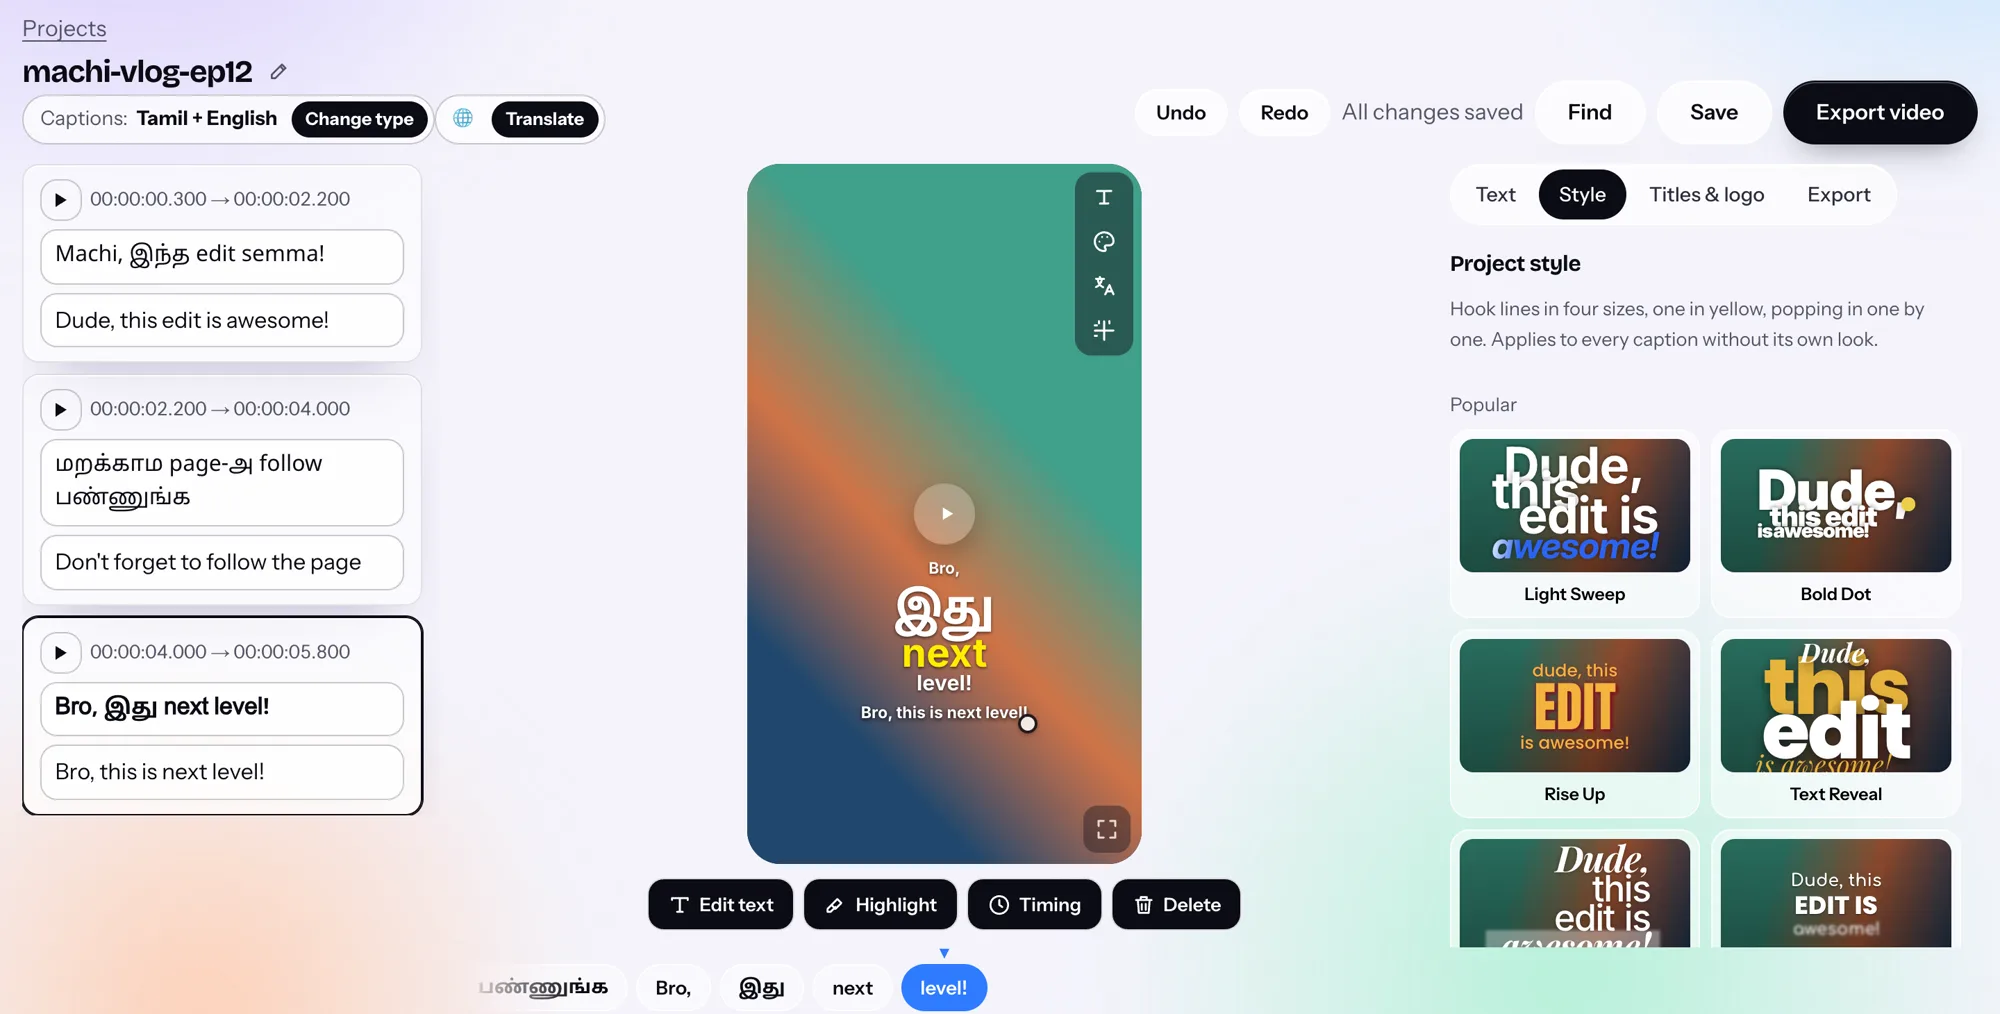
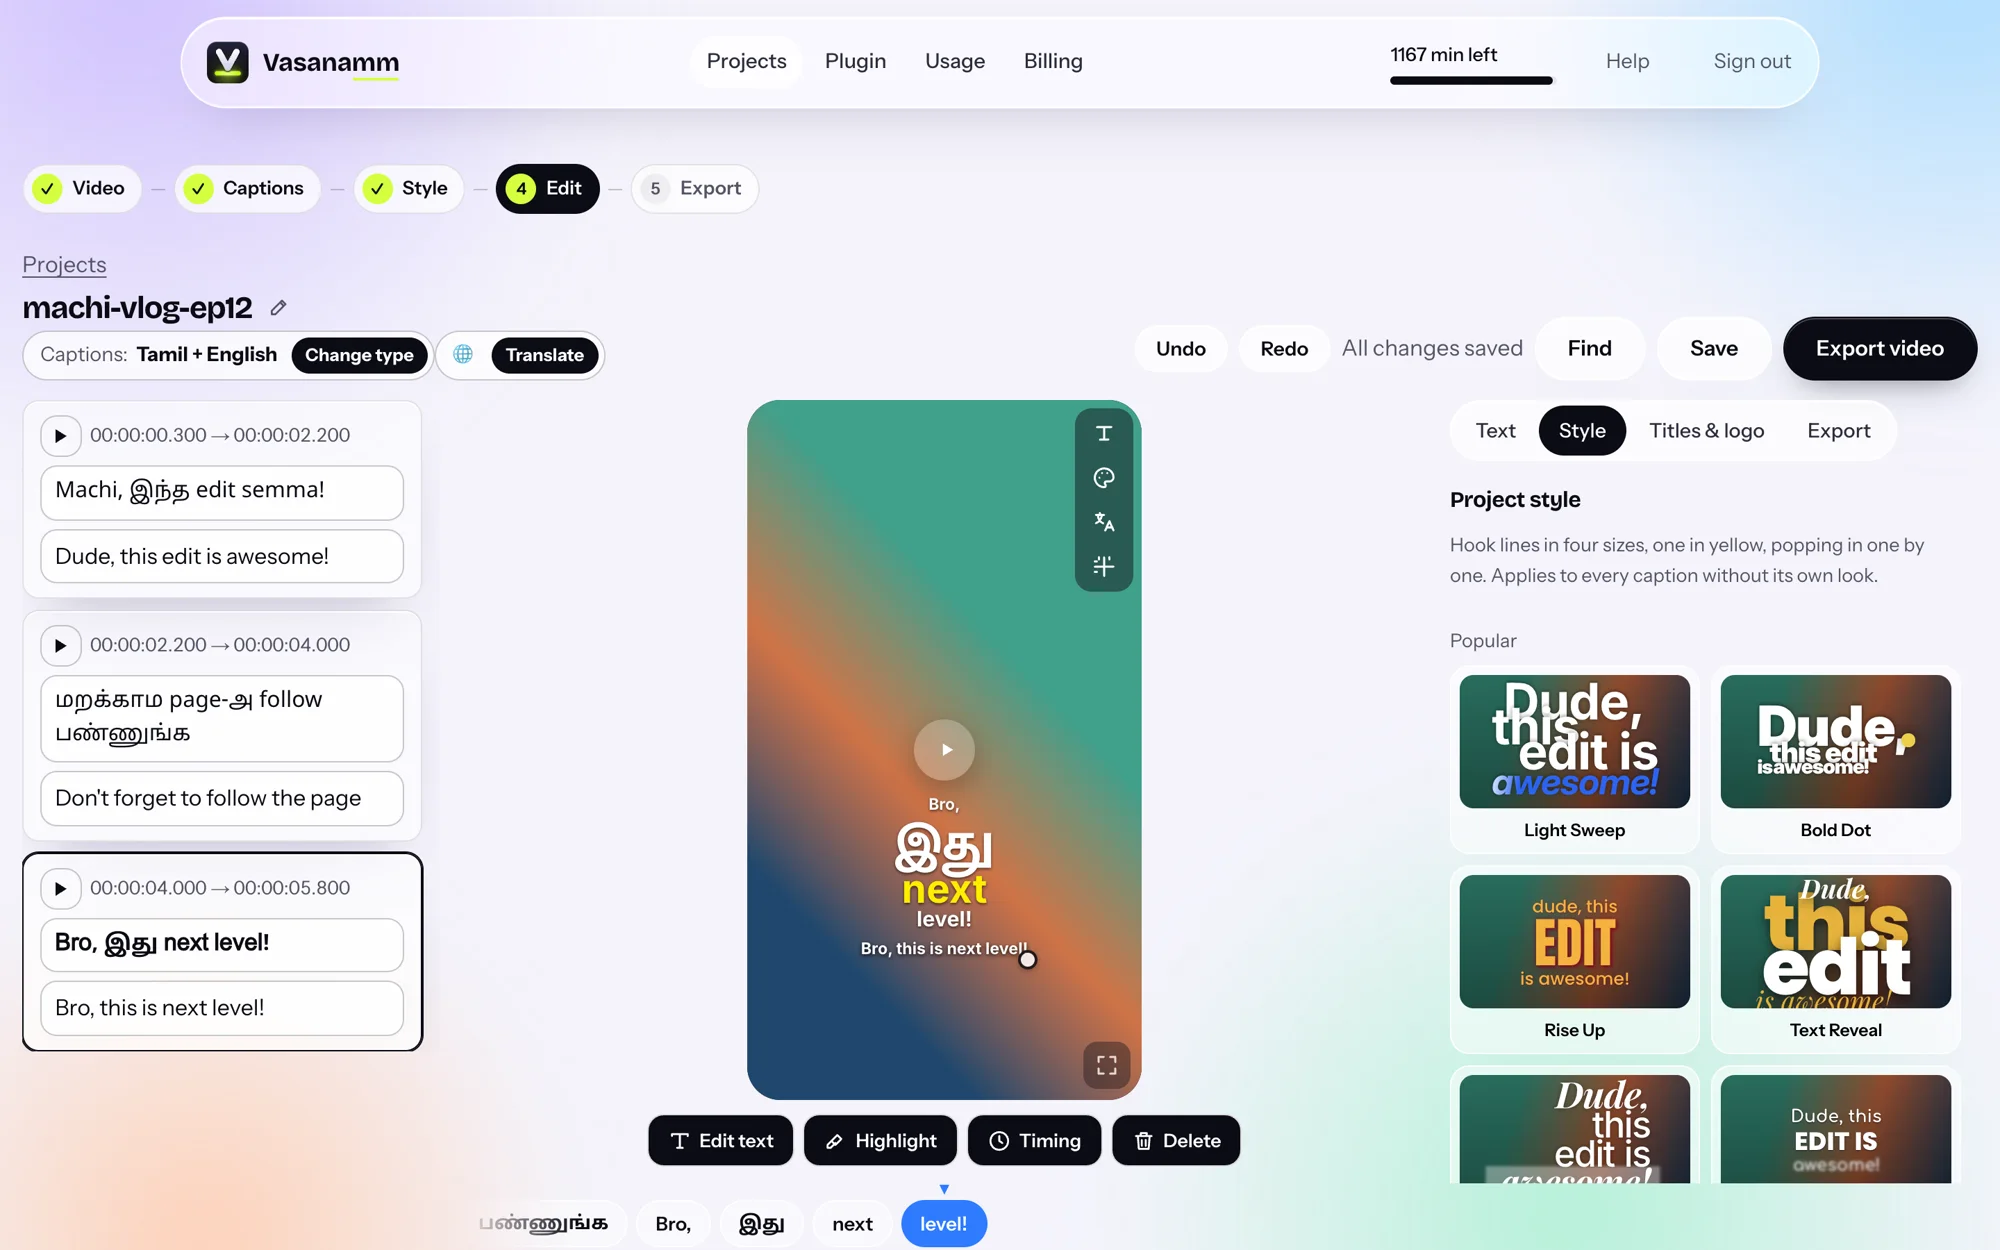
Homepage editor section: the screenshots in a realistic MacBook (camera notch, Safari window, aluminium base) and iPhone (titanium band, Dynamic Island, status bar, side buttons), both drawn in CSS
Claude-Session: https://claude.ai/code/session_01Vg3xd9etKGRwdzvMY3ibrV

diff --git a/app/home.css b/app/home.css
@@ -76,16 +76,58 @@
 .sw-group button[aria-pressed="true"] { background: var(--lime); border-color: var(--lime); color: var(--black); }
 .sw-group button:focus-visible { outline: 2px solid var(--lime); outline-offset: 2px; }
 
-/* ---------- Editor: real screenshots ---------- */
-.hm-shots { position: relative; padding-right: clamp(60px, 14vw, 190px); }
-.hm-desk { position: relative; margin: 0; border-radius: 18px; background: #fff; padding: 34px 0 0; box-shadow: 0 50px 90px -50px rgba(40, 30, 90, .55), 0 0 0 1px var(--line); overflow: hidden; }
-.hm-desk img { display: block; width: 100%; height: auto; }
-.hm-dots { position: absolute; top: 13px; left: 16px; display: flex; gap: 6px; }
-.hm-dots i { width: 10px; height: 10px; border-radius: 50%; background: #e2e0ea; }
-.hm-pin { position: absolute; translate: -50% -50%; width: 30px; height: 30px; border-radius: 50%; display: grid; place-items: center; background: var(--lime); color: var(--black); font: 700 .9rem var(--font-body); box-shadow: 0 0 0 5px rgba(212, 255, 63, .35), 0 6px 14px rgba(0, 0, 0, .25); }
-.hm-mobile { position: absolute; right: 0; bottom: -40px; width: clamp(130px, 21%, 250px); margin: 0; }
-.hm-mobile img { display: block; width: 100%; height: auto; border-radius: 28px; border: 6px solid var(--black); box-shadow: 0 40px 70px -30px rgba(12, 12, 20, .6); }
-.hm-mobile figcaption { margin-top: 10px; font-size: .82rem; color: var(--muted); text-align: center; }
+/* ---------- Editor: real screenshots on a MacBook and an iPhone, both drawn in CSS ---------- */
+.hm-shots { position: relative; padding: 0 clamp(70px, 15vw, 210px) 0 0; }
+.hm-pin { position: absolute; translate: -50% -50%; width: 30px; height: 30px; border-radius: 50%; display: grid; place-items: center; background: var(--lime); color: var(--black); font: 700 .9rem var(--font-body); box-shadow: 0 0 0 5px rgba(212, 255, 63, .35), 0 6px 14px rgba(0, 0, 0, .25); z-index: 2; }
+
+/* MacBook: a black glass lid with an aluminium rim and a camera notch, a thin aluminium base with the thumb groove. */
+.mac { margin: 0 auto; width: 100%; container-type: inline-size; }
+.mac-lid { position: relative; margin: 0 6.5%; padding: 1.6cqw 1.6cqw 2.1cqw; border-radius: 2.6cqw 2.6cqw 1.1cqw 1.1cqw; background: #0b0b0d;
+  box-shadow: 0 0 0 .22cqw #a9abb1, 0 0 0 .32cqw #d9dadf, inset 0 0 0 .18cqw #2a2a2e; }
+.mac-cam { position: absolute; top: 1.6cqw; left: 50%; translate: -50% 0; width: 13%; height: 2cqw; background: #0b0b0d; border-radius: 0 0 1cqw 1cqw; z-index: 3; }
+.mac-cam::after { content: ""; position: absolute; top: .55cqw; left: 50%; translate: -50% 0; width: .7cqw; height: .7cqw; border-radius: 50%; background: radial-gradient(circle at 35% 35%, #3a4a6a, #0d0f16 60%); box-shadow: 0 0 0 .12cqw #1b1b20; }
+.mac-screen { position: relative; overflow: hidden; border-radius: .9cqw .9cqw .2cqw .2cqw; aspect-ratio: 1.545;
+  background: radial-gradient(120% 90% at 20% 10%, #b7a8ff, transparent 55%), radial-gradient(90% 90% at 90% 100%, #8fd3ff, transparent 55%), linear-gradient(160deg, #6f5bd6, #2b2a5e); }
+.mac-screen::after { content: ""; position: absolute; inset: 0; pointer-events: none; z-index: 4; background: linear-gradient(115deg, rgba(255, 255, 255, .07) 0%, rgba(255, 255, 255, 0) 38%); }
+.mac-menu { display: flex; align-items: center; gap: 1.5cqw; height: 2.6%; min-height: 0; padding: 0 1.4cqw; font: 500 .82cqw/1 -apple-system, "SF Pro Text", "Helvetica Neue", var(--font-sans), sans-serif; color: #fff; background: rgba(30, 24, 60, .35); -webkit-backdrop-filter: blur(20px); backdrop-filter: blur(20px); }
+.mac-menu b { font-weight: 700; }
+.mac-menu em { margin-left: auto; font-style: normal; }
+.mac-win { position: absolute; left: 2.2%; right: 2.2%; top: 5%; bottom: 0; border-radius: .9cqw .9cqw 0 0; overflow: hidden; background: #f4f3fb; box-shadow: 0 1.6cqw 4cqw rgba(0, 0, 0, .45), 0 0 0 .08cqw rgba(0, 0, 0, .35); }
+.mac-bar { position: relative; display: flex; align-items: center; height: 3.6cqw; padding: 0 1.2cqw; background: linear-gradient(#ecebf0, #e1e0e6); border-bottom: .08cqw solid #c9c8cf; }
+.mac-lights { display: flex; gap: .62cqw; }
+.mac-lights i { width: .95cqw; height: .95cqw; border-radius: 50%; background: #ff5f57; box-shadow: inset 0 0 0 .06cqw rgba(0, 0, 0, .15); }
+.mac-lights i:nth-child(2) { background: #febc2e; }
+.mac-lights i:nth-child(3) { background: #28c840; }
+.mac-url { position: absolute; left: 50%; translate: -50% 0; display: flex; align-items: center; justify-content: center; gap: .5cqw; width: 34%; height: 2.2cqw; border-radius: .6cqw; background: #fff; box-shadow: 0 0 0 .06cqw #d3d2d8; font: 500 .95cqw -apple-system, "SF Pro Text", "Helvetica Neue", var(--font-sans), sans-serif; color: #2b2b30; }
+.mac-url svg { width: .7cqw; fill: #6b6b72; }
+.mac-page { position: relative; }
+.mac-page img { display: block; width: 100%; height: auto; }
+.mac-base { position: relative; height: 1.9cqw; border-radius: 0 0 50% 50% / 0 0 100% 100%;
+  background: linear-gradient(#f3f4f6 0%, #d5d7db 30%, #a9acb2 75%, #7f8288 100%); box-shadow: 0 2.4cqw 3cqw -1.6cqw rgba(20, 20, 40, .55); }
+.mac-base::before { content: ""; position: absolute; top: 0; left: 50%; translate: -50% 0; width: 15%; height: 45%; border-radius: 0 0 1.2cqw 1.2cqw; background: linear-gradient(#a4a7ad, #c9cbd0); }
+
+/* iPhone: a titanium band, black bezel, Dynamic Island, status bar, home indicator and side buttons. */
+.iph { position: absolute; right: 0; bottom: -6%; width: clamp(130px, 22%, 260px); margin: 0; z-index: 5; container-type: inline-size; }
+.iph-body { position: relative; padding: 4cqw; border-radius: 17cqw; background: linear-gradient(135deg, #8d8e93, #4a4b50 30%, #2c2d31 55%, #6b6c71);
+  box-shadow: inset 0 0 0 .7cqw #1d1d20, 0 0 0 .5cqw #5c5d62, 0 40px 70px -26px rgba(12, 12, 20, .65); }
+.iph-screen { position: relative; overflow: hidden; border-radius: 13cqw; aspect-ratio: 390 / 844; background: #000; }
+.iph-screen img { position: absolute; left: 0; right: 0; top: 10.5cqw; width: 100%; height: auto; display: block; }
+.iph-status { position: absolute; inset: 0 0 auto; height: 12.5cqw; z-index: 2; display: flex; align-items: center; justify-content: space-between; padding: 1cqw 8cqw 0 10cqw; color: #fff; background: #000;
+  font: 600 4.3cqw -apple-system, "SF Pro Text", "Helvetica Neue", var(--font-sans), sans-serif; }
+.iph-island { position: absolute; top: 2.8cqw; left: 50%; translate: -50% 0; width: 31cqw; height: 9cqw; border-radius: 99px; background: #000; box-shadow: 0 0 0 .3cqw #0a0a0a; }
+.iph-island::after { content: ""; position: absolute; right: 3cqw; top: 50%; translate: 0 -50%; width: 2.6cqw; height: 2.6cqw; border-radius: 50%; background: radial-gradient(circle at 35% 35%, #2c3a5a, #07080c 65%); }
+.iph-icons { display: flex; align-items: center; gap: 1.4cqw; }
+.iph-icons svg { height: 3.2cqw; fill: #fff; }
+.iph-batt { position: relative; width: 6.6cqw; height: 3.2cqw; border-radius: 1cqw; border: .35cqw solid rgba(255, 255, 255, .45); padding: .35cqw; }
+.iph-batt::after { content: ""; position: absolute; right: -1.2cqw; top: 50%; translate: 0 -50%; width: .6cqw; height: 1.2cqw; border-radius: 0 .4cqw .4cqw 0; background: rgba(255, 255, 255, .45); }
+.iph-batt i { display: block; width: 80%; height: 100%; border-radius: .5cqw; background: #fff; }
+.iph-home { position: absolute; left: 50%; bottom: 2.2cqw; translate: -50% 0; width: 36cqw; height: 1.4cqw; border-radius: 99px; background: rgba(255, 255, 255, .85); z-index: 2; }
+.iph-btn { position: absolute; width: 1.1cqw; border-radius: 1cqw; background: linear-gradient(90deg, #3a3b3f, #8a8b90); }
+.iph-btn.mute { left: -1cqw; top: 19%; height: 7%; }
+.iph-btn.vol1 { left: -1cqw; top: 29%; height: 12%; }
+.iph-btn.vol2 { left: -1cqw; top: 43%; height: 12%; }
+.iph-btn.power { right: -1cqw; top: 31%; height: 18%; background: linear-gradient(270deg, #3a3b3f, #8a8b90); }
+.iph figcaption { margin-top: 12px; font-size: .82rem; color: var(--muted); text-align: center; }
 .hm-legend { list-style: none; counter-reset: pin; margin: 80px 0 0; padding: 0; display: grid; grid-template-columns: repeat(4, 1fr); gap: 24px; }
 .hm-legend li { counter-increment: pin; color: var(--muted); font-size: .95rem; }
 .hm-legend li::before { content: counter(pin); display: grid; place-items: center; width: 26px; height: 26px; border-radius: 50%; background: var(--lime); color: var(--black); font: 700 .8rem var(--font-body); margin-bottom: 12px; }
@@ -178,8 +220,8 @@
   .sw-phone { position: relative; top: 0; width: min(260px, 70%); margin-inline: auto; }
   .sw-group { grid-template-columns: 1fr; gap: 8px; }
   .hm-shots { padding-right: 0; }
-  .hm-mobile { position: relative; bottom: 0; width: 56%; margin: -60px 0 0 auto; }
-  .hm-pin { width: 22px; height: 22px; font-size: .72rem; box-shadow: 0 0 0 3px rgba(212, 255, 63, .35); }
+  .iph { position: relative; bottom: 0; width: 40%; margin: -16% 2% 0 auto; }
+  .hm-pin { width: 17px; height: 17px; font-size: .62rem; box-shadow: 0 0 0 2px rgba(212, 255, 63, .35); }
   .hm-legend { margin-top: 36px; }
   .hm-faq .hm-head { position: static; }
   .hm-dark { border-radius: 24px; margin-inline: 8px; }

diff --git a/components/Landing.tsx b/components/Landing.tsx
@@ -192,15 +192,49 @@ export default function Landing({ popular }: { popular: string[] }) {
             <p className="hm-lede">Fix a word, move a line, change a style. Every change shows on the video at once and saves by itself.</p>
           </div>
           <div className="hm-shots">
-            <figure className="hm-desk rise">
-              <span className="hm-dots" aria-hidden="true"><i /><i /><i /></span>
-              {/* eslint-disable-next-line @next/next/no-img-element */}
-              <img src="/home/editor.webp" width={2000} height={1014} loading="lazy" alt="The Vasanamm editor on a computer: the captions in Tamil and English on the left, the video in the middle, caption styles on the right." />
-              {[["21%", "23%"], ["37.5%", "23%"], ["72.5%", "31%"], ["23.5%", "96%"]].map(([x, y], i) => <span key={i} className="hm-pin" style={{ left: x, top: y }} aria-hidden="true">{i + 1}</span>)}
+            {/* A MacBook (drawn in CSS) with the editor open in a browser window. */}
+            <figure className="mac rise">
+              <div className="mac-lid">
+                <span className="mac-cam" aria-hidden="true" />
+                <div className="mac-screen">
+                  <div className="mac-menu" aria-hidden="true">
+                    <b>Safari</b><span>File</span><span>Edit</span><span>View</span><span>History</span><span>Window</span>
+                    <em>Mon 9 Nov&nbsp;&nbsp;9:41 PM</em>
+                  </div>
+                  <div className="mac-win">
+                    <div className="mac-bar" aria-hidden="true">
+                      <span className="mac-lights"><i /><i /><i /></span>
+                      <span className="mac-url"><svg viewBox="0 0 10 12"><path d="M2 5V3.5a3 3 0 0 1 6 0V5h.5A1.5 1.5 0 0 1 10 6.5v4A1.5 1.5 0 0 1 8.5 12h-7A1.5 1.5 0 0 1 0 10.5v-4A1.5 1.5 0 0 1 1.5 5H2Zm1.2 0h3.6V3.5a1.8 1.8 0 0 0-3.6 0V5Z" /></svg>vasanamm.com</span>
+                    </div>
+                    <div className="mac-page">
+                      {/* eslint-disable-next-line @next/next/no-img-element */}
+                      <img src="/home/editor.webp" width={2000} height={1250} loading="lazy" alt="The Vasanamm editor on a computer: the captions in Tamil and English on the left, the video in the middle, caption styles on the right." />
+                      {[["21%", "33%"], ["37.5%", "32%"], ["71.6%", "34.4%"], ["30.2%", "91%"]].map(([x, y], i) => <span key={i} className="hm-pin" style={{ left: x, top: y }} aria-hidden="true">{i + 1}</span>)}
+                    </div>
+                  </div>
+                </div>
+              </div>
+              <div className="mac-base" aria-hidden="true" />
             </figure>
-            <figure className="hm-mobile rise" style={d(0.1)}>
-              {/* eslint-disable-next-line @next/next/no-img-element */}
-              <img src="/home/phone.webp" width={780} height={1688} loading="lazy" alt="The same editor on a phone, with buttons to edit text, highlight a word and change timing." />
+            {/* An iPhone (drawn in CSS) with the phone editor. */}
+            <figure className="iph rise" style={d(0.1)}>
+              <div className="iph-body">
+                <i className="iph-btn mute" /><i className="iph-btn vol1" /><i className="iph-btn vol2" /><i className="iph-btn power" />
+                <div className="iph-screen">
+                  <div className="iph-status" aria-hidden="true">
+                    <b>9:41</b>
+                    <span className="iph-island" />
+                    <span className="iph-icons">
+                      <svg viewBox="0 0 18 12"><rect x="0" y="8" width="3" height="4" rx="1" /><rect x="5" y="5.5" width="3" height="6.5" rx="1" /><rect x="10" y="3" width="3" height="9" rx="1" /><rect x="15" y="0" width="3" height="12" rx="1" /></svg>
+                      <svg viewBox="0 0 16 12"><path d="M8 2.4c2.3 0 4.4.9 6 2.4l1.3-1.4A10.3 10.3 0 0 0 8 .4C5.2.4 2.6 1.5.7 3.4L2 4.8a8.4 8.4 0 0 1 6-2.4Zm0 3.8c1.3 0 2.5.5 3.4 1.3l1.3-1.4A6.8 6.8 0 0 0 8 4.2c-1.8 0-3.5.7-4.7 1.9l1.3 1.4C5.5 6.7 6.7 6.2 8 6.2Zm0 3.7c-.6 0-1.1.2-1.5.6L8 12l1.5-1.5c-.4-.4-.9-.6-1.5-.6Z" /></svg>
+                      <span className="iph-batt"><i /></span>
+                    </span>
+                  </div>
+                  {/* eslint-disable-next-line @next/next/no-img-element */}
+                  <img src="/home/phone.webp" width={780} height={1688} loading="lazy" alt="The same editor on a phone, with buttons to edit text, highlight a word and change timing." />
+                  <span className="iph-home" aria-hidden="true" />
+                </div>
+              </div>
               <figcaption>The same editor on your phone</figcaption>
             </figure>
           </div>
